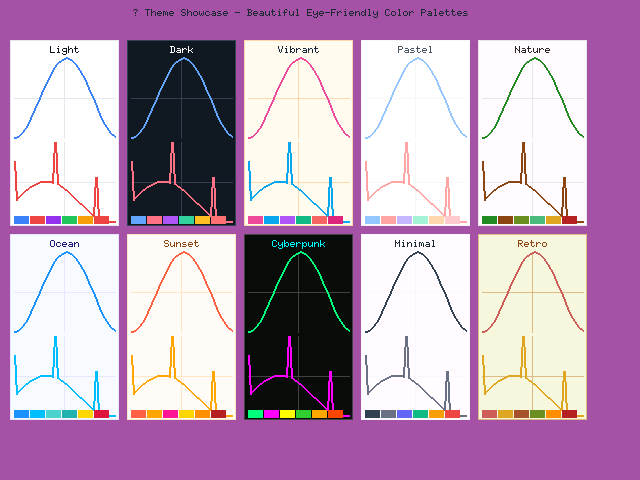
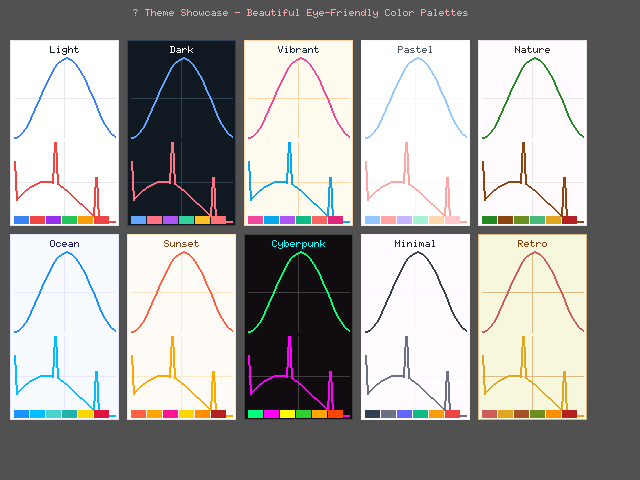
fix: correct RGB565 color values in theme showcase
- Remove incorrect bit shifting on RGB565 color values
- Rgb565::new() expects 5-bit red, 6-bit green, 5-bit blue values directly
- Fixed background color from cyan to proper dark gray
- Fixed cyberpunk theme colors to use correct RGB565 values

🤖 Generated with Claude Code

diff --git a/examples/basic/theme_showcase.rs b/examples/basic/theme_showcase.rs
@@ -28,7 +28,7 @@ fn main() -> ChartResult<()> {
     let window_config = WindowConfig::new("Theme Showcase - All Themes")
         .theme(WindowTheme::Dark)
         .fps(30)
-        .background(embedded_graphics::pixelcolor::Rgb565::new(20, 20, 20)); // Dark gray background
+        .background(Rgb565::new(10, 20, 10)); // Dark gray background in RGB565 format
 
     // Pre-create themes outside the animation loop
     let themes = [
@@ -99,7 +99,7 @@ fn draw_theme_grid(
     // Themes are now passed as a parameter instead of being created here
 
     // Draw main title
-    let title_color = embedded_graphics::pixelcolor::Rgb565::new(31 >> 3, 41 >> 2, 55 >> 3);
+    let title_color = Rgb565::new(31, 41, 20); // Dark blue-ish color
     let title_style = MonoTextStyle::new(&FONT_6X10, title_color);
     Text::with_alignment(
         "🎨 Theme Showcase - Beautiful Eye-Friendly Color Palettes",
@@ -146,15 +146,15 @@ fn draw_theme_grid(
 fn create_improved_cyberpunk_theme() -> Theme<embedded_graphics::pixelcolor::Rgb565> {
     // Improved cyberpunk theme with better color balance
     Theme {
-        background: embedded_graphics::pixelcolor::Rgb565::new(13 >> 3, 13 >> 2, 13 >> 3), // Very dark gray
-        primary: embedded_graphics::pixelcolor::Rgb565::new(0 >> 3, 255 >> 2, 127 >> 3), // Spring green (changed from cyan)
-        secondary: embedded_graphics::pixelcolor::Rgb565::new(255 >> 3, 0 >> 2, 255 >> 3), // Magenta
-        text: embedded_graphics::pixelcolor::Rgb565::new(0 >> 3, 255 >> 2, 255 >> 3), // Cyan (moved from primary)
-        grid: embedded_graphics::pixelcolor::Rgb565::new(64 >> 3, 64 >> 2, 64 >> 3),  // Dark gray
-        accent: embedded_graphics::pixelcolor::Rgb565::new(255 >> 3, 255 >> 2, 0 >> 3), // Yellow
-        success: embedded_graphics::pixelcolor::Rgb565::new(50 >> 3, 205 >> 2, 50 >> 3), // Lime green
-        warning: embedded_graphics::pixelcolor::Rgb565::new(255 >> 3, 165 >> 2, 0 >> 3), // Orange
-        error: embedded_graphics::pixelcolor::Rgb565::new(255 >> 3, 69 >> 2, 0 >> 3), // Red orange
+        background: Rgb565::new(2, 3, 2), // Very dark gray
+        primary: Rgb565::new(0, 63, 15), // Spring green (changed from cyan)
+        secondary: Rgb565::new(31, 0, 31), // Magenta
+        text: Rgb565::new(0, 63, 31), // Cyan (moved from primary)
+        grid: Rgb565::new(8, 16, 8),  // Dark gray
+        accent: Rgb565::new(31, 63, 0), // Yellow
+        success: Rgb565::new(6, 51, 6), // Lime green
+        warning: Rgb565::new(31, 41, 0), // Orange
+        error: Rgb565::new(31, 17, 0), // Red orange
     }
 }
 
